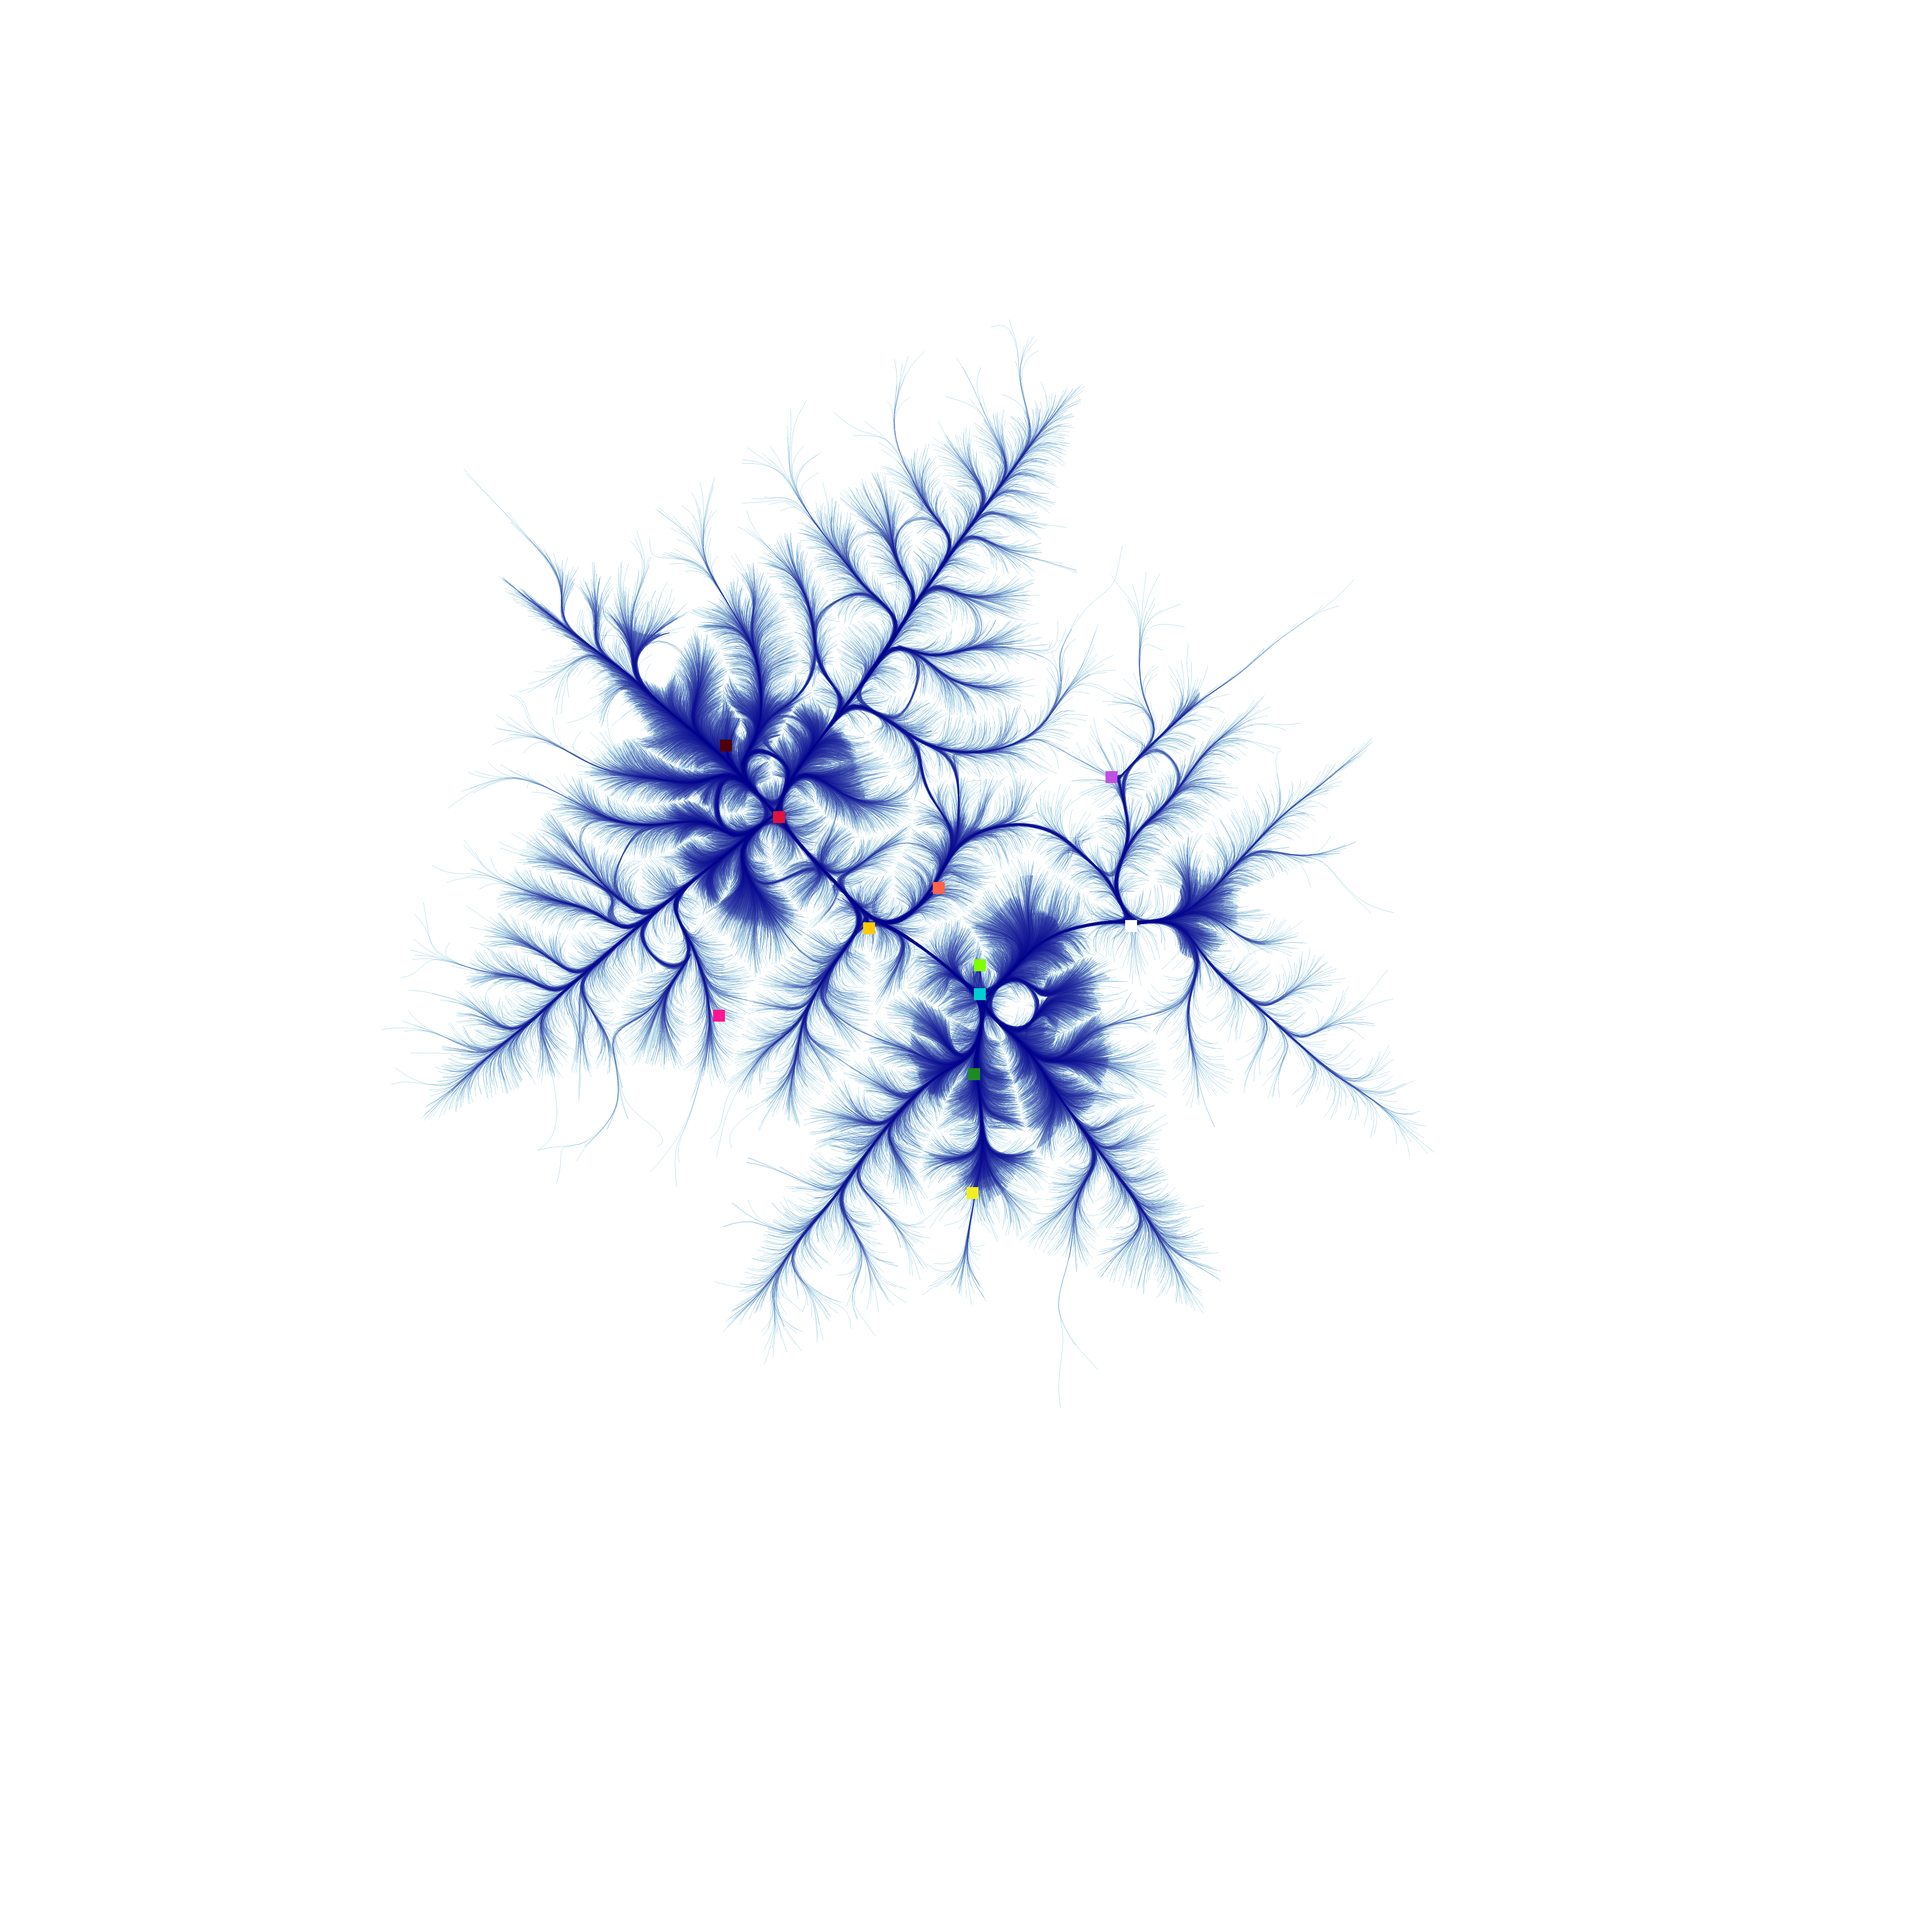
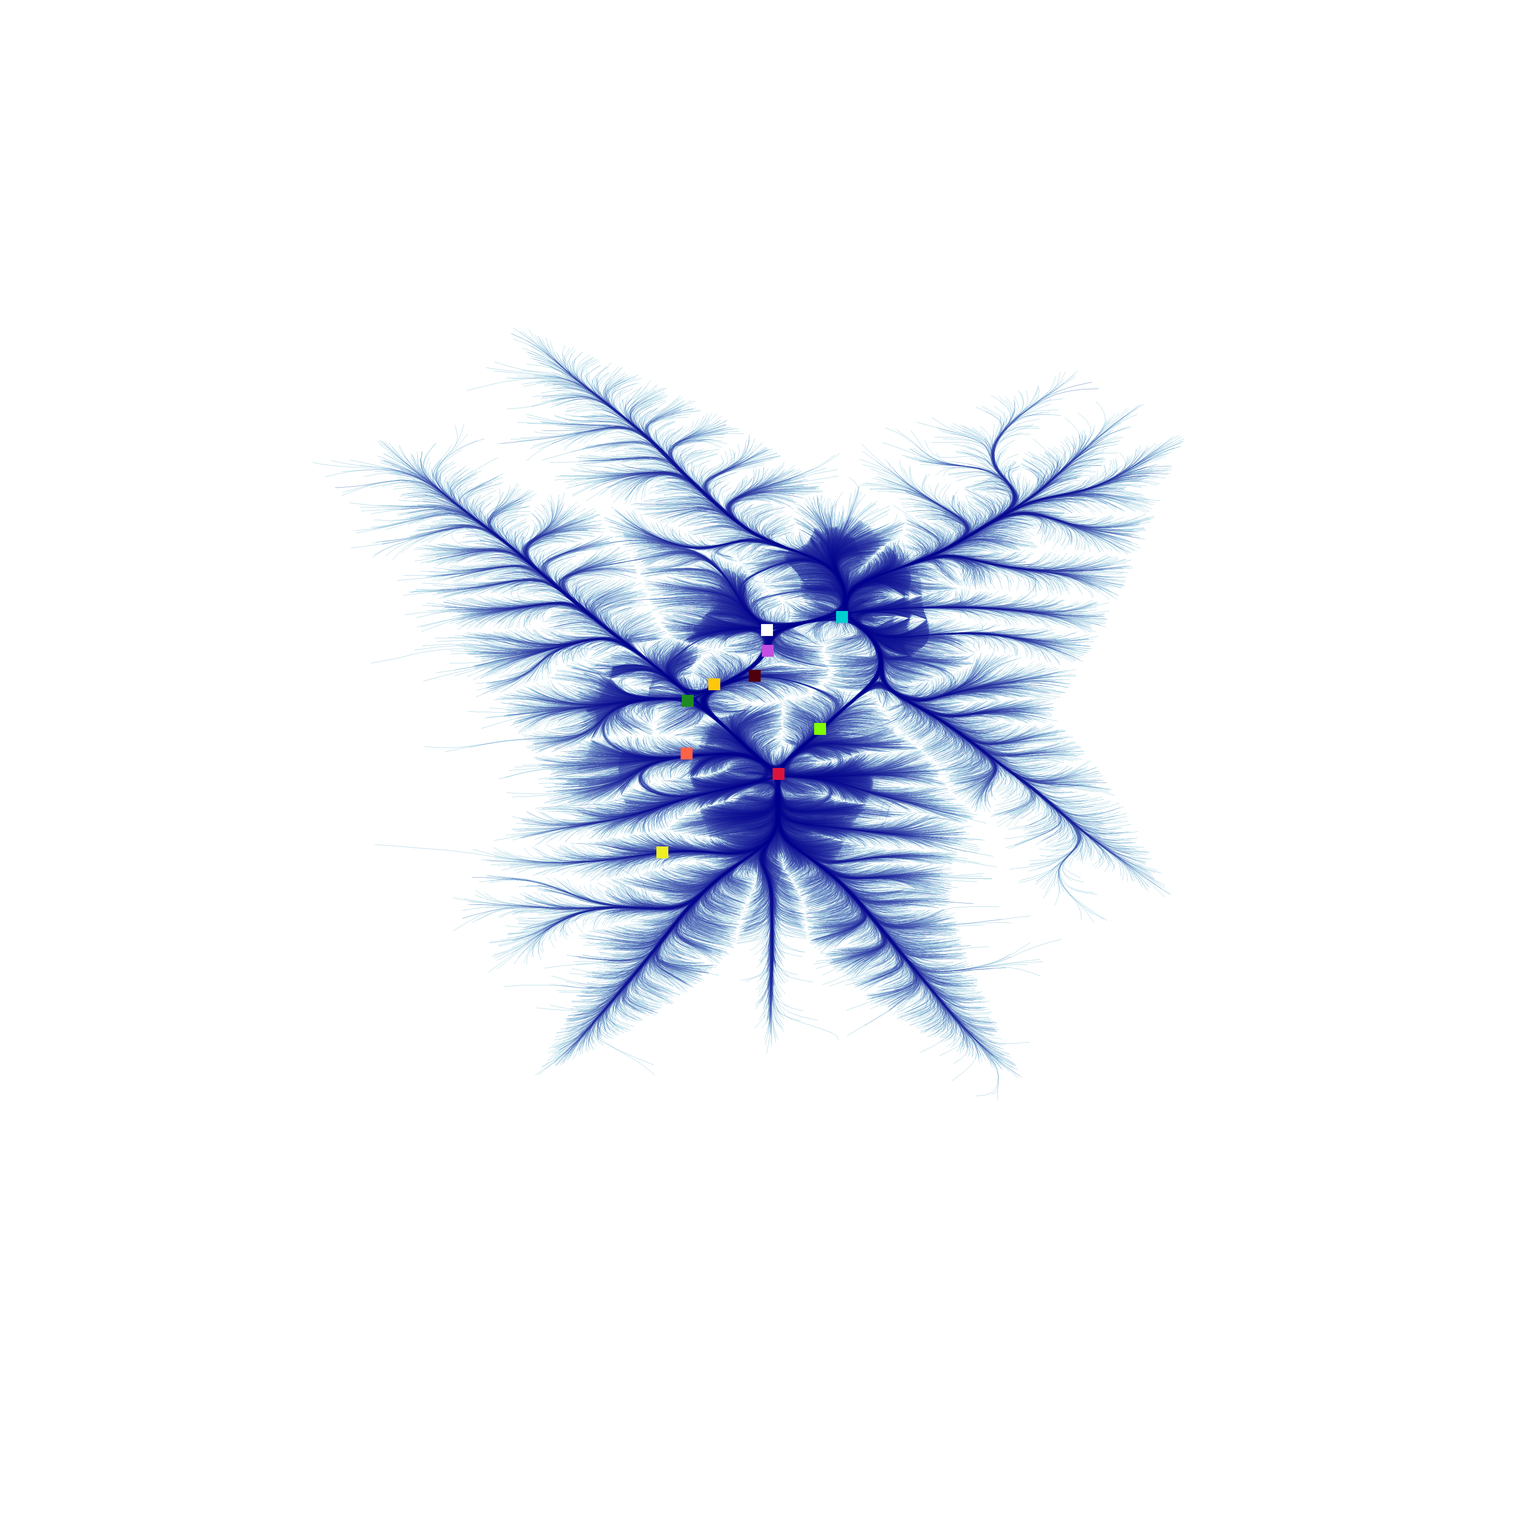
feat: address protocols nx_plot (last_version)

Changed region(s): [[0.2188, 0.1875, 0.75, 0.6875]]

diff --git a/ml/utils/network_graph/plot_address_protocols.py b/ml/utils/network_graph/plot_address_protocols.py
@@ -1,16 +1,20 @@
 import time
-import networkx as nx
 import pandas as pd
+import networkx as nx
 from pyarrow import feather
+import multiprocessing as mp
 import datashader as ds
 import datashader.transfer_functions as tf
 from datashader.layout import forceatlas2_layout
 from datashader.bundling import hammer_bundle
 from datashader.utils import export_image
+import dask.array as da
+import dask.dataframe as dd
 
 from bipartite_network import build_bipartite_graph
 
-CVSOPTS = dict(plot_height=5000, plot_width=5000)
+CVSOPTS = dict(plot_height=4000, plot_width=4000)
+NUM_P = mp.cpu_count()
 
 COLOR_KEY = {
     "curve_dao_count":       "#FF6347",
@@ -27,25 +31,18 @@ COLOR_KEY = {
     "address":               "#12a7bb",
 }
 
-def timing_decorator(func):
-    def wrapper(*args, **kwargs):
-        start_time = time.perf_counter()
-        result = func(*args, **kwargs)
-        end_time = time.perf_counter()
-        print(f"Time for {func.__name__} : {end_time - start_time} sec\n")
-        return result
-    return wrapper
+def time_taken(start, step_name):
+    """Affiche le temps écoulé pour une étape donnée"""
+    elapsed_time = time.time() - start
+    print(f"{step_name} took {elapsed_time:.2f} seconds.")
 
 
 def process_image(agg, px_size, min_alpha, shape, name, color_key=None, color_baseline=None):
     """Génère une image pour la catégorie 'address' et une image pour les autres catégories."""
-
     if color_key is None:
         color_key = COLOR_KEY
-
     if color_baseline is None:
         color_baseline = agg.min().item()
-
     shaded_img = tf.shade(
         agg,
         cmap=list(color_key.values()),
@@ -58,79 +55,109 @@ def process_image(agg, px_size, min_alpha, shape, name, color_key=None, color_ba
         color_baseline=color_baseline,
         rescale_discrete_levels=True
     )
-    return tf.spread(shaded_img, px=px_size, shape=shape, how=None, mask=None, name=name)
+    return tf.spread(
+        shaded_img,
+        px=px_size,
+        shape=shape,
+        how=None,
+        mask=None,
+        name=name
+    )
 
-@timing_decorator
-def nodesplot(nodes, name=None, canvas=None, cat=None):
-    """Génère une image pour les nœuds."""
-    print(f"--> Building nodesplot")
-    assert not nodes.isnull().any().any(), "Nodes data contains NaN values"
+def visualize_graph(graph, graph_type):
+    """Efficient visualization of the graph using Datashader, with Dask for parallel computing."""
 
+    start = time.time()
+    print(f"\n1. -- Building layout --")
+
+    def process_nodes_layout(layout):
+        """Transforme le layout calculé sur le CPU en DataFrame Dask pour traitement parallèle"""
+        nodes = pd.DataFrame(layout).T.rename(columns={0: 'x', 1: 'y'})
+        nodes['cat'] = [graph.nodes[node].get('cat', 'unknown') for node in graph.nodes()]
+        nodes['cat'] = nodes['cat'].astype('category')
+        return dd.from_pandas(nodes, npartitions=NUM_P)
+
+    layout = nx.fruchterman_reingold_layout(graph, iterations=1)
+    nodes = process_nodes_layout(layout)
+    edges = dd.from_pandas(pd.DataFrame(list(graph.edges), columns=['source', 'target']), npartitions=NUM_P*2)
+
+    time_taken(start, "Building layout")
+
+    start = time.time()
+    print(f"\n2. -- Computing Canvas --")
+
+    nodes_x = da.asarray(nodes['x'].values, chunks=(10000))
+    nodes_y = da.asarray(nodes['y'].values, chunks=(10000))
+    x_min, x_max = nodes_x.min().compute_chunk_sizes(), nodes_x.max().compute_chunk_sizes()
+    y_min, y_max = nodes_y.min().compute_chunk_sizes(), nodes_y.max().compute_chunk_sizes()
+    canvas = ds.Canvas(
+        x_range=(x_min, x_max),
+        y_range=(y_min, y_max),
+        **CVSOPTS
+    )
+    time_taken(start, "Computing Canvas")
+
+
+    start = time.time()
+    print(f"\n3. -- Computing plot --")
+    name = "Force-directed, bundled"
+    cat = "cat"
+    fd_nodes = forceatlas2_layout(nodes.compute(), edges.compute())
+    bd_edges = hammer_bundle(fd_nodes, edges.compute(), initial_bandwidth=0.05)
+    time_taken(start, "Computing plot")
+
+    start = time.time()
+    print(f"\n3.1 -- Processing nodesplot --")
+    assert not fd_nodes.isnull().any().any(), "Nodes data contains NaN values"
     aggregator = None if cat is None else ds.count_cat(cat)
-    agg = canvas.points(nodes, 'x', 'y', aggregator)
+    agg = canvas.points(dd.from_pandas(fd_nodes, npartitions=NUM_P), 'x', 'y', aggregator)
+
     images = []
 
-    unique_categories = nodes[cat].unique()
+    unique_categories = fd_nodes[cat].unique()
     other_categories = [category for category in unique_categories if category != "address"]
 
     if "address" in unique_categories:
         agg_address = agg.sel(**{cat: "address"})
         contains_nan = agg_address.isnull().any()
-        print("--> processing 'address' images : ( NaN=", contains_nan.item(), ")")
-        images.append(process_image(agg_address, px_size=15, min_alpha=200, shape='circle', name=name,  color_key={"address": "#f4676c"}))
+        print("\n3.1.1 -- 'address' images : ( NaN=", contains_nan.item(), ")")
+        images.append(process_image(agg_address, px_size=15, min_alpha=200, shape='circle', name=name, color_key={"address": "#f4676c"}))
+        time_taken(start, "Processing Address")
 
     if other_categories:
         agg_others = agg.sel(**{cat: other_categories})
         contains_nan = agg_others.isnull().any()
-        print("--> processing 'protocols' images : ( NaN=", contains_nan.item(),")")
+        start = time.time()
+        print("\n3.1.2 -- processing 'protocols' images : ( NaN=", contains_nan.item(), ")")
         images.append(process_image(agg_others, px_size=15, min_alpha=255, shape='square', name=name))
+        time_taken(start, "Processing Categories")
 
-    return tf.stack(*images)
+    np = tf.stack(*images)
+    time_taken(start, "Total processing nodesplot")
 
-@timing_decorator
-def edgesplot(edges, name=None, canvas=None):
-    print(f"--> Building edgesplot")
-    return tf.shade(canvas.line(edges, 'x', 'y', agg=ds.count()), name=name)
-
-@timing_decorator
-def graphplot(nodes, edges, name="", canvas=None, cat=None):
-    print(f"--> Building graph_plot")
-    np = nodesplot(nodes, name + " nodes", canvas, cat)
-    ep = edgesplot(edges, name + " edges", canvas)
-    return tf.stack(ep, np, how="over", name=name)
-
-
-@timing_decorator
-def nx_layout(graph):
-    """Generate node positions using spring layout."""
-    print(f"--> Building layout")
-    layout = nx.fruchterman_reingold_layout(graph, iterations=1)
-    nodes = pd.DataFrame(layout).T.rename(columns={0: 'x', 1: 'y'})
-    nodes.set_index(nodes.index, inplace=True)
-    nodes['cat'] = [graph.nodes[node].get('cat', 'unknown') for node in graph.nodes()]
-    nodes['cat'] = nodes['cat'].astype('category')
-    edges = pd.DataFrame(list(graph.edges), columns=['source', 'target'])
-    return nodes, edges
-
-@timing_decorator
-def nx_plot(canvas=None, nodes=None, edges=None, cat=None):
-    print(f"--> Building nx_plot")
-    fd = forceatlas2_layout(nodes, edges)
-    return graphplot(fd, hammer_bundle(fd, edges, initial_bandwidth=0.05), "Force-directed, bundled", canvas=canvas, cat=cat)
-
-@timing_decorator
-def visualize_graph(G, graph_type):
-    """Efficient visualization of the graph using Datashader."""
-    nodes, edges = nx_layout(G)
-    print(f"--> Building canvas")
-    canvas = ds.Canvas(
-        x_range=(nodes.x.min(), nodes.x.max()),
-        y_range=(nodes.y.min(), nodes.y.max()),
-        **CVSOPTS
+    start = time.time()
+    print(f"\n3.2 -- Processing edgesplot --")
+    ep = tf.shade(
+        canvas.line(
+            dd.from_pandas(bd_edges, npartitions=NUM_P),
+            'x', 'y',
+            agg=ds.count()
+        ), name=name
     )
-    nx_img = nx_plot(canvas=canvas, nodes=nodes, edges=edges, cat="cat")
+    time_taken(start, "Processing edgesplot")
+
+    start = time.time()
+    print(f"\n4. -- Stacking edgesplot & nodesplot --")
+    nx_img = tf.stack(ep, np, how="over", name=name)
+    time_taken(start, "Stacking edgesplot & nodesplot")
+
+    start = time.time()
+    print(f"\n5. -- Exporting image --")
     export_image(nx_img, f"docs/graphics/address_protocol/{graph_type}_nx_plot")
-    print(f"Image exported succesfully !")
+    time_taken(start, "Exporting image")
+
+    print(f"\nImage exported succesfully!\n")
+# -----------------------------------------------
 
 
 if __name__ == "__main__":
@@ -140,7 +167,12 @@ if __name__ == "__main__":
     ]
     table = feather.read_table("data/features/features.arrow")
     features = table.to_pandas()
-    features = features#.sample(100000, random_state=42)
+    features = features.sample(100000, random_state=42)
 
+    start = time.time()
     G_protocol = build_bipartite_graph(features, 'address', protocols, 'address-to-protocol')
+    time_taken(start, "Total network building")
+
+    start = time.time()
     visualize_graph(G_protocol, "address_protocol")
+    time_taken(start, "Total graph building")
